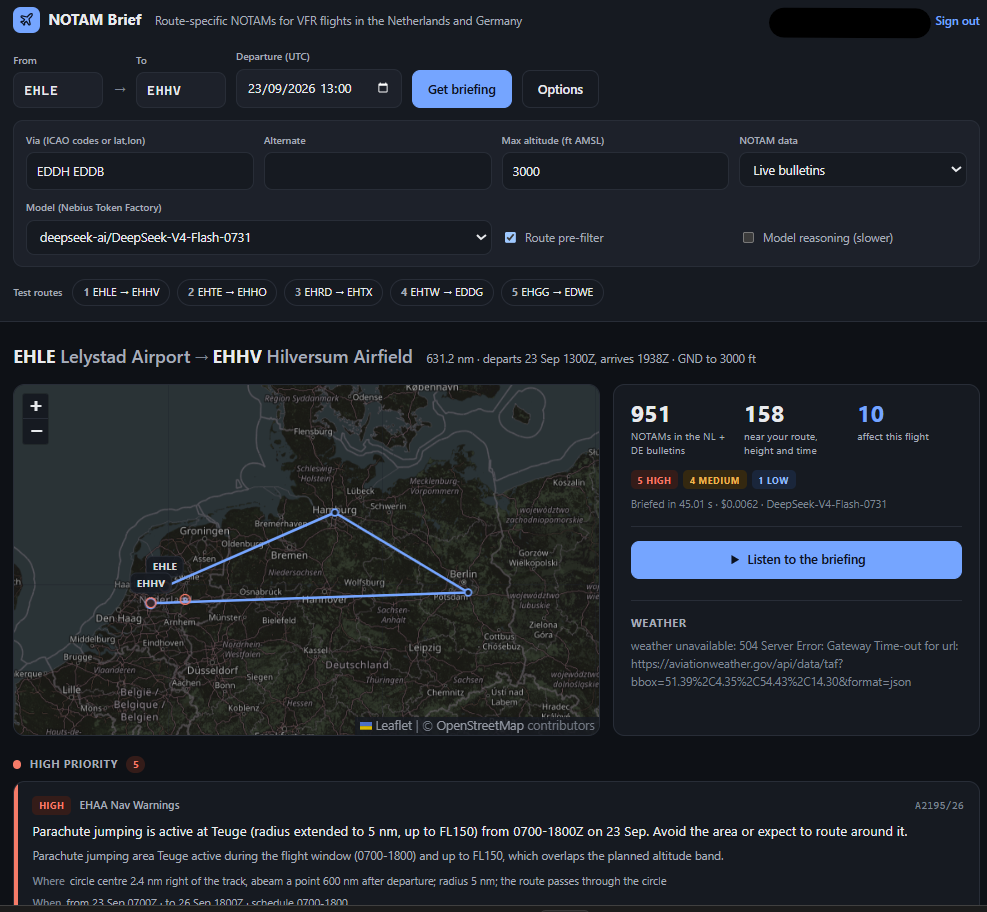
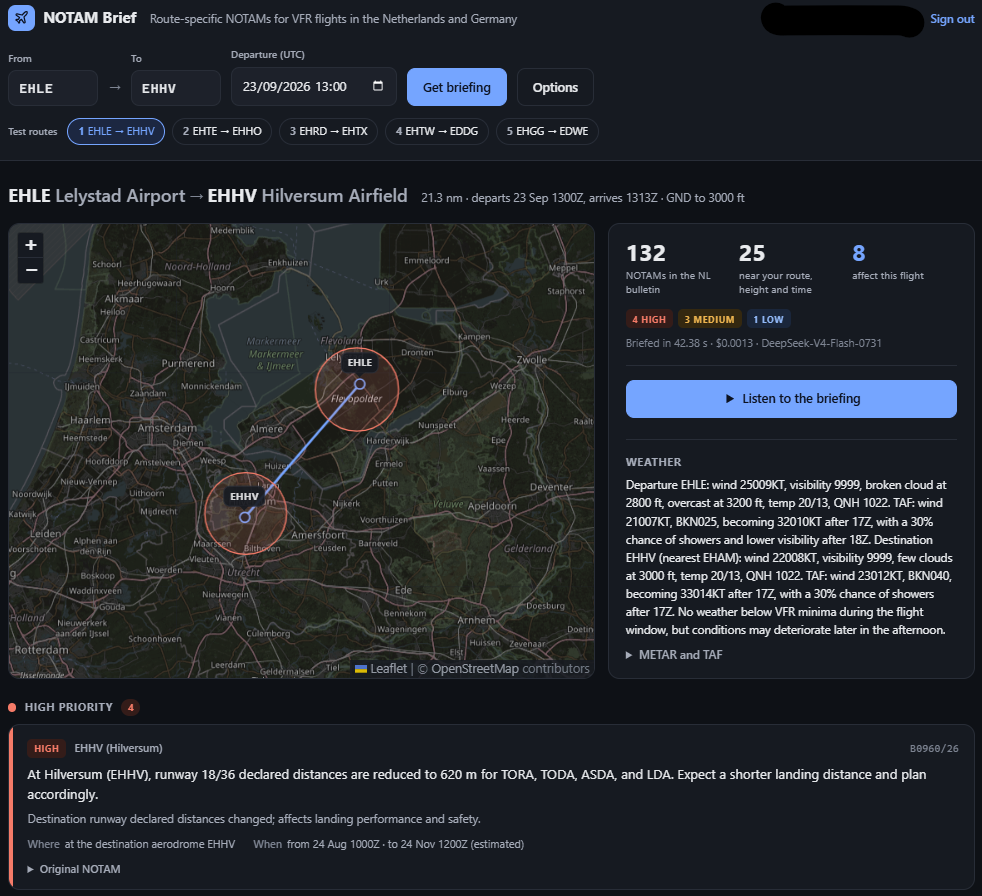
Use a cleaner screenshot: Lelystad to Hilversum with the weather loaded
The user's email in the top bar is blacked out in the image.

diff --git a/README.md b/README.md
@@ -21,11 +21,10 @@ Germany.
 
 It supports the pilot's decision; the pilot in command still makes it.
 
-![NOTAM Brief showing a live briefing from Lelystad to Hilversum via Hamburg and Berlin: a route map with the NOTAM areas, the count going from 951 NOTAMs to 158 near the route to 10 that affect the flight, a Listen button, and the first high-priority NOTAM card](docs/screenshot.png)
+![NOTAM Brief showing a live briefing from Lelystad to Hilversum: a route map with the NOTAM areas at both airfields, the count going from 132 NOTAMs to 25 near the route to 8 that affect the flight, a Listen button, the weather summary, and the first high-priority NOTAM card](docs/screenshot.png)
 
-*A live briefing from Lelystad to Hilversum via Hamburg and Berlin. The Dutch and German bulletins held 951
-NOTAMs, 158 were near the route, height and time, and 10 affect the flight. The weather service timed out on this
-run, and the app says so rather than hiding it.*
+*A live briefing from Lelystad to Hilversum. The Dutch bulletin held 132 NOTAMs, 25 were near the route, height
+and time, and 8 affect the flight: 4 high, 3 medium and 1 low priority.*
 
 ## About this project
 
